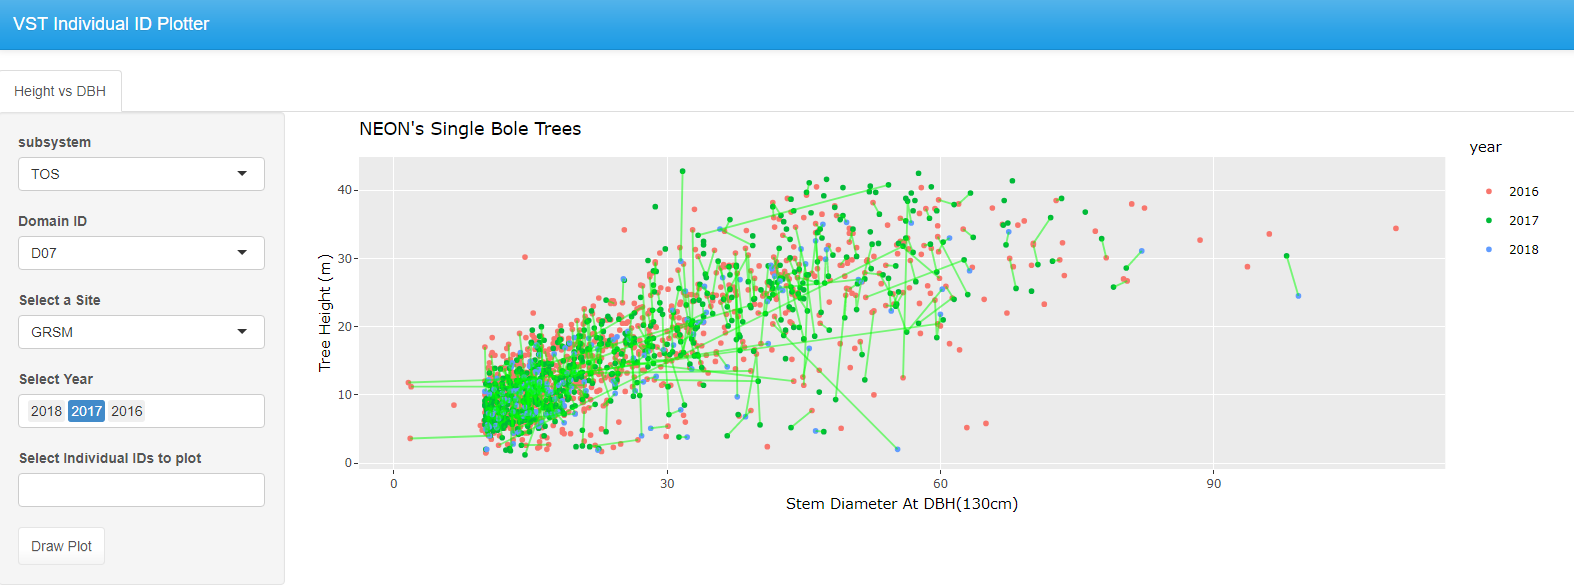
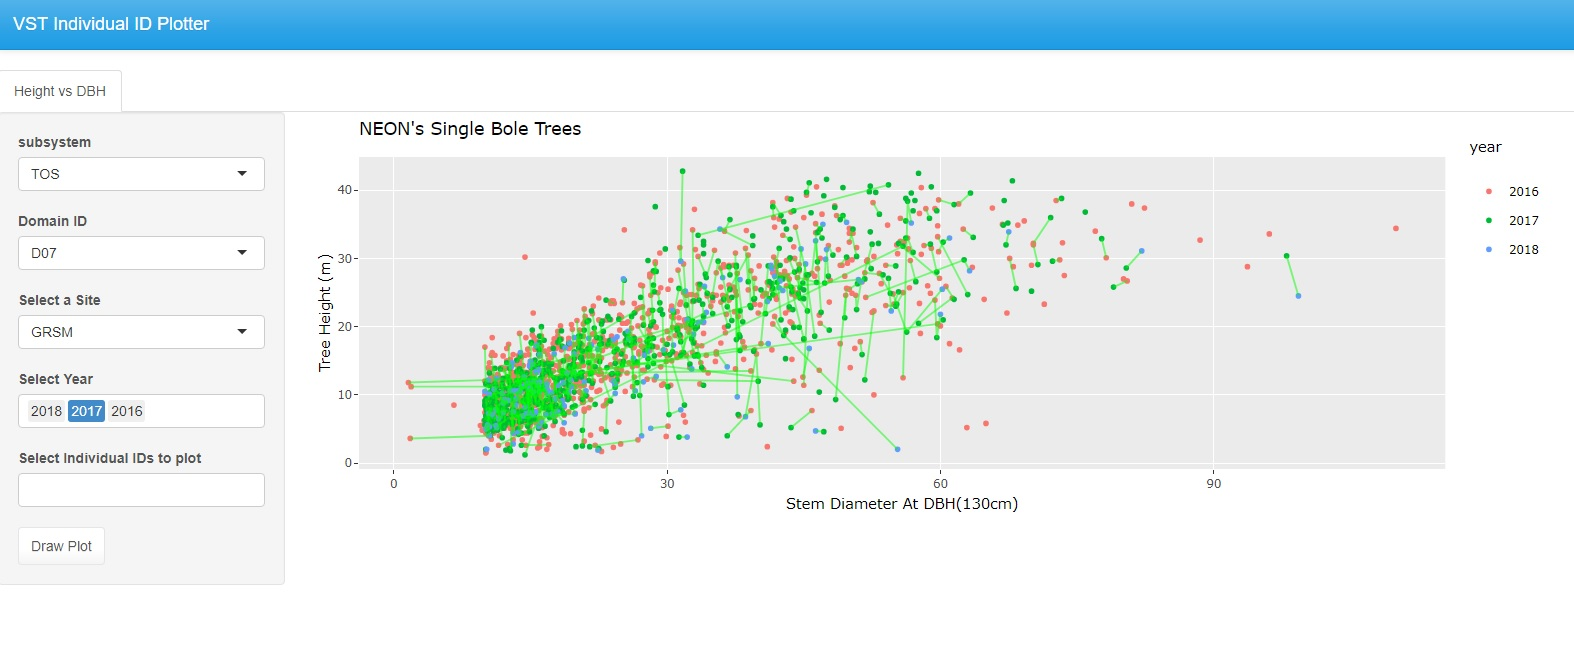
updating image

diff --git a/index.html b/index.html
@@ -80,7 +80,7 @@
 										<span class="date">April 18, 2019</span>
 										<h2><a href="https://kevstyers.shinyapps.io/vstExample/">VST Single Bole Tree Plotter</h2>
 									</header>
-									<a href="https://kevstyers.shinyapps.io/vstExample/" class="image fit"><img src="images/vstGRSM.png" alt="" /></a>
+									<a href="https://kevstyers.shinyapps.io/vstExample/" class="image fit"><img src="images/vst.jpg" alt="" /></a>
 									<p>This is a NEON VST Data Application. It's primary function is to plot multiple years of Single Bole Tree data from a site and then draw a line connecting each tree's subsequent measurement. The App is still under developement.</p>
 								</article>
 								<article>
